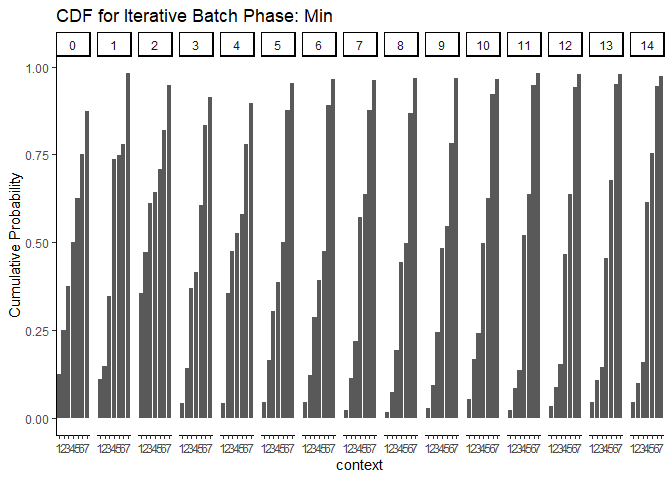
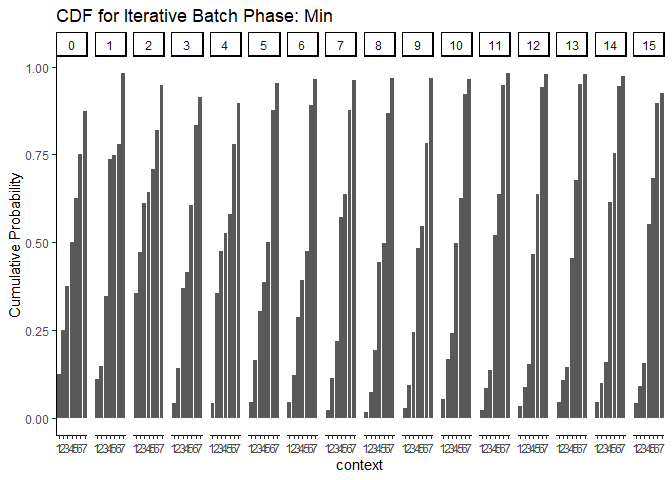
updating data and prob: batch 15, min discriminatory context

diff --git a/04_update_prob/get_qualtrics_data_political_candidates.md b/04_update_prob/get_qualtrics_data_political_candidates.md
@@ -53,7 +53,7 @@ survey_name <- "Political Candidates"
 df <- load_qualtrics(survey_name)
 ```
 
-    ##   |                                                                              |                                                                      |   0%  |                                                                              |=====                                                                 |   8%  |                                                                              |================                                                      |  23%  |                                                                              |====================================                                  |  51%  |                                                                              |===============================================================       |  90%  |                                                                              |====================================================================  |  98%  |                                                                              |======================================================================| 100%
+    ##   |                                                                              |                                                                      |   0%  |                                                                              |================                                                      |  23%  |                                                                              |==========================================                            |  60%  |                                                                              |====================================================================  |  98%  |                                                                              |======================================================================| 100%
 
     ## 
     ## ── Column specification ────────────────────────────────────────────────────────
@@ -88,7 +88,7 @@ df %>%
   nrow()
 ```
 
-    ## [1] 2559
+    ## [1] 2659
 
 ``` r
 # drop test data
@@ -101,21 +101,21 @@ df %>%
   nrow()
 ```
 
-    ## [1] 2436
+    ## [1] 2536
 
 ``` r
 # average finished rate
 mean(df$Finished)
 ```
 
-    ## [1] 0.9967159
+    ## [1] 0.9968454
 
 ``` r
 # average time to complete
 mean(df$`Duration (in seconds)`)
 ```
 
-    ## [1] 96.63752
+    ## [1] 96.43139
 
 ``` r
 # compare amount of time spent
@@ -160,7 +160,7 @@ df %>%
     ## 4 2024-01-02 2024-01-02 15:04:43
     ## 5 2024-01-03 2024-01-03 18:00:25
     ## 6 2024-01-04 2024-01-04 23:51:20
-    ## 7 2024-01-05 2024-01-05 10:45:55
+    ## 7 2024-01-05 2024-01-05 11:35:37
 
 ``` r
 df <- df %>%
@@ -187,6 +187,7 @@ df <- df %>%
       StartDate_clean <= ymd_hms("2024-01-04-16-55-00") ~ 12,
       StartDate_clean <= ymd_hms("2024-01-04-23-55-00") ~ 13,
       StartDate_clean <= ymd_hms("2024-01-05-10-52-00") ~ 14,
+      StartDate_clean <= ymd_hms("2024-01-05-11-50-00") ~ 15,
       TRUE ~ NA_integer_
     ),
     batch_type = case_when(
@@ -207,7 +208,7 @@ df %>%
     ## `summarise()` has grouped output by 'batch_type'. You can override using the
     ## `.groups` argument.
 
-    ## # A tibble: 19 × 3
+    ## # A tibble: 20 × 3
     ## # Groups:   batch_type [3]
     ##    batch_type                 batch_id     n
     ##    <chr>                         <dbl> <int>
@@ -229,7 +230,8 @@ df %>%
     ## 16 Iterative Batch Phase: Min       12   100
     ## 17 Iterative Batch Phase: Min       13   101
     ## 18 Iterative Batch Phase: Min       14   100
-    ## 19 Warmup                            0   323
+    ## 19 Iterative Batch Phase: Min       15   100
+    ## 20 Warmup                            0   323
 
 ## Survey Validation
 
@@ -255,9 +257,9 @@ if (!all(unique(df$Status) == "IP Address")) {
 
     ## Warning: Test/spam data included in the analysis file
 
-    ## Number of observations in data: 2135
+    ## Number of observations in data: 2235
     ## Status values in data: IP Address, Spam
-    ## Number of observations left in data: 2134
+    ## Number of observations left in data: 2234
 
 ``` r
 # check embedded data variables match probabilities for all iterative batches
@@ -272,7 +274,7 @@ df %>%
   distinct()
 ```
 
-    ## # A tibble: 19 × 8
+    ## # A tibble: 20 × 8
     ##    batch_id   pi1   pi2   pi3   pi4   pi5   pi6   pi7
     ##       <dbl> <dbl> <dbl> <dbl> <dbl> <dbl> <dbl> <dbl>
     ##  1        0 0.125 0.25  0.375 0.5   0.625 0.75  0.875
@@ -294,6 +296,7 @@ df %>%
     ## 17       12 0.032 0.088 0.152 0.467 0.637 0.942 0.979
     ## 18       13 0.046 0.108 0.144 0.455 0.677 0.952 0.978
     ## 19       14 0.046 0.098 0.158 0.614 0.753 0.946 0.973
+    ## 20       15 0.042 0.09  0.157 0.552 0.683 0.896 0.924
 
 ``` r
 # check consent means their responses are missing
@@ -318,7 +321,7 @@ df <- df %>%
     ## Warning in check_consent(.): 1 survey respondents who do not consent with
     ## non-missing responses
 
-    ## Warning in check_consent(.): 2133 respondents in the data
+    ## Warning in check_consent(.): 2233 respondents in the data
 
 ``` r
 # check that all completed
@@ -352,7 +355,7 @@ df <- df %>%
     ## Warning in check_completion(.): Dropping 8 survey respondents who did not
     ## finish
 
-    ## Warning in check_completion(.): 2125 respondents in the data
+    ## Warning in check_completion(.): 2225 respondents in the data
 
 ``` r
 df <- df %>%
@@ -395,12 +398,12 @@ df <- df %>%
     ## Warning in check_commitment(.): Dropping 1 survey respondents did not pass
     ## commitment check 1
 
-    ## Warning in check_commitment(.): 2124 respondents in the data
+    ## Warning in check_commitment(.): 2224 respondents in the data
 
     ## Warning in check_commitment(.): Dropping 2 survey respondents who did not pass
     ## commitment check 2
 
-    ## Warning in check_commitment(.): 2122 respondents in the data
+    ## Warning in check_commitment(.): 2222 respondents in the data
 
 ``` r
 # check ID is unique again
@@ -430,8 +433,8 @@ if (length(unique(df$`Prolific ID Q`)) != nrow(df)) {
 
     ## Warning: ID is not unique
 
-    ## Number of rows in data: 2122
-    ## # A tibble: 2,122 × 8
+    ## Number of rows in data: 2222
+    ## # A tibble: 2,222 × 8
     ##        n StartDate_clean     EndDate             flag_first_obs
     ##    <int> <dttm>              <dttm>                       <dbl>
     ##  1     2 2024-01-03 12:29:24 2024-01-03 12:31:07              1
@@ -444,10 +447,10 @@ if (length(unique(df$`Prolific ID Q`)) != nrow(df)) {
     ##  8     1 2023-12-26 18:01:49 2023-12-26 18:02:38              1
     ##  9     1 2023-12-26 18:01:49 2023-12-26 18:02:59              1
     ## 10     1 2023-12-26 18:01:54 2023-12-26 18:02:47              1
-    ## # ℹ 2,112 more rows
+    ## # ℹ 2,212 more rows
     ## # ℹ 4 more variables: `Duration (in seconds)` <dbl>, Finished <lgl>,
     ## #   batch_id <dbl>, batch_type <chr>
-    ## Number of rows in data after dropping duplicate ID: 2119
+    ## Number of rows in data after dropping duplicate ID: 2219
 
 ``` r
 stopifnot(length(unique(df$`Prolific ID Q`)) == nrow(df))
@@ -482,8 +485,8 @@ df %>%
     ##  6 Iterative Batch Phase: Max 6          32
     ##  7 Iterative Batch Phase: Max 7          11
     ##  8 Iterative Batch Phase: Max 8          39
-    ##  9 Iterative Batch Phase: Min 1          92
-    ## 10 Iterative Batch Phase: Min 2         136
+    ##  9 Iterative Batch Phase: Min 1          96
+    ## 10 Iterative Batch Phase: Min 2         141
     ## # ℹ 14 more rows
 
 ``` r
@@ -495,7 +498,7 @@ df %>%
     ## `summarise()` has grouped output by 'batch_type'. You can override using the
     ## `.groups` argument.
 
-    ## # A tibble: 19 × 3
+    ## # A tibble: 20 × 3
     ## # Groups:   batch_type [3]
     ##    batch_type                 batch_id     n
     ##    <chr>                         <dbl> <int>
@@ -517,7 +520,8 @@ df %>%
     ## 16 Iterative Batch Phase: Min       12   100
     ## 17 Iterative Batch Phase: Min       13   101
     ## 18 Iterative Batch Phase: Min       14   100
-    ## 19 Warmup                            0   317
+    ## 19 Iterative Batch Phase: Min       15   100
+    ## 20 Warmup                            0   317
 
 ``` r
 df %>%
@@ -648,20 +652,20 @@ df_clean %>%
   verify(!is.na(chose_younger))
 ```
 
-    ## # A tibble: 2,119 × 10
+    ## # A tibble: 2,219 × 10
     ##    chose_younger    Q1    Q2    Q3    Q4    Q5    Q6    Q7    Q8 context
     ##            <dbl> <dbl> <dbl> <dbl> <dbl> <dbl> <dbl> <dbl> <dbl> <ord>  
     ##  1             1    NA    NA    NA    NA    NA    NA     1    NA 4      
     ##  2             1    NA    NA    NA    NA     1    NA    NA    NA 5      
     ##  3             1    NA    NA    NA    NA    NA    NA    NA     1 2      
     ##  4             0     0    NA    NA    NA    NA    NA    NA    NA 6      
-    ##  5             1    NA    NA    NA    NA    NA    NA    NA     1 4      
-    ##  6             1    NA    NA    NA    NA    NA     1    NA    NA 8      
-    ##  7             0    NA    NA    NA    NA    NA    NA    NA     0 6      
-    ##  8             1    NA    NA    NA    NA    NA     1    NA    NA 6      
-    ##  9             1    NA    NA    NA    NA    NA    NA    NA     1 2      
-    ## 10             1    NA    NA    NA     1    NA    NA    NA    NA 6      
-    ## # ℹ 2,109 more rows
+    ##  5             1    NA    NA    NA    NA    NA     1    NA    NA 4      
+    ##  6             1    NA    NA    NA    NA    NA    NA    NA     1 4      
+    ##  7             1    NA    NA    NA    NA    NA     1    NA    NA 8      
+    ##  8             1    NA     1    NA    NA    NA    NA    NA    NA 3      
+    ##  9             0    NA    NA    NA    NA    NA    NA    NA     0 6      
+    ## 10             1    NA    NA    NA    NA    NA     1    NA    NA 6      
+    ## # ℹ 2,209 more rows
 
 ``` r
 df_clean %>%
@@ -676,14 +680,14 @@ df_clean %>%
     ## # A tibble: 8 × 4
     ##   context     n resp1 resp0
     ##   <ord>   <int> <dbl> <int>
-    ## 1 1         137   106    31
-    ## 2 2         215   159    56
-    ## 3 3         213   158    55
-    ## 4 4         392   273   119
-    ## 5 5         434   332   102
-    ## 6 6         429   301   128
-    ## 7 7         171   132    39
-    ## 8 8         128    97    31
+    ## 1 1         141   110    31
+    ## 2 2         220   163    57
+    ## 3 3         218   163    55
+    ## 4 4         435   304   131
+    ## 5 5         449   344   105
+    ## 6 6         444   306   138
+    ## 7 7         174   133    41
+    ## 8 8         138   105    33
 
 ``` r
 # identify context desc
@@ -752,14 +756,14 @@ df_clean %>%
     ## # A tibble: 8 × 3
     ##   race                                  n     per
     ##   <chr>                             <int>   <dbl>
-    ## 1 White                              1521 0.718  
-    ## 2 Black or African American           213 0.101  
-    ## 3 Asian                               195 0.0920 
-    ## 4 Multiracial                         106 0.0500 
-    ## 5 Other                                40 0.0189 
-    ## 6 Prefer not to disclose               25 0.0118 
-    ## 7 American Indian or Alaskan Native    12 0.00566
-    ## 8 Native Hawaiian                       7 0.00330
+    ## 1 White                              1601 0.721  
+    ## 2 Black or African American           220 0.0991 
+    ## 3 Asian                               201 0.0906 
+    ## 4 Multiracial                         110 0.0496 
+    ## 5 Other                                42 0.0189 
+    ## 6 Prefer not to disclose               26 0.0117 
+    ## 7 American Indian or Alaskan Native    12 0.00541
+    ## 8 Native Hawaiian                       7 0.00315
 
 ``` r
 df_clean %>%
@@ -769,7 +773,7 @@ df_clean %>%
 
     ## `stat_bin()` using `bins = 30`. Pick better value with `binwidth`.
 
-    ## Warning: Removed 26 rows containing non-finite values (`stat_bin()`).
+    ## Warning: Removed 28 rows containing non-finite values (`stat_bin()`).
 
 ![](get_qualtrics_data_political_candidates_files/figure-gfm/demog-1.png)<!-- -->
 
@@ -782,8 +786,8 @@ df_clean %>%
     ## # A tibble: 2 × 2
     ##   female count
     ##   <lgl>  <int>
-    ## 1 FALSE   1140
-    ## 2 TRUE     979
+    ## 1 FALSE   1185
+    ## 2 TRUE    1034
 
 ``` r
 df_clean %>%
@@ -796,7 +800,7 @@ df_clean %>%
     ## # A tibble: 1 × 2
     ##   count_hispanic per_hispanic
     ##            <int>        <dbl>
-    ## 1            199       0.0939
+    ## 1            208       0.0937
 
 ## Clean Data Validation
 

diff --git a/04_update_prob/update_prob_political_candidates.md b/04_update_prob/update_prob_political_candidates.md
@@ -65,7 +65,7 @@ num_outcome0 <- integer(num_contexts)
 print(str_glue("Number of rows in data: {nrow(df_clean)}"))
 ```
 
-    ## Number of rows in data: 2119
+    ## Number of rows in data: 2219
 
 ``` r
 # filter for correct batch types (whether max discriminatory or min)
@@ -82,13 +82,13 @@ if (current_batch_num != max(df_clean$batch_id)) {
 print(str_glue("Current batch ID: {current_batch_num}"))
 ```
 
-    ## Current batch ID: 14
+    ## Current batch ID: 15
 
 ``` r
 print(str_glue("Number of rows left in data: {nrow(df_clean)}"))
 ```
 
-    ## Number of rows left in data: 1720
+    ## Number of rows left in data: 1820
 
 ``` r
 print(str_glue("Only batch type in data: {str_c(unique(df_clean$batch_type), collapse=', ')}"))
@@ -101,7 +101,7 @@ set.seed(2023)
 nrow(df_clean)
 ```
 
-    ## [1] 1720
+    ## [1] 1820
 
 ``` r
 # generate prob of most (or least) discriminatory context
@@ -114,21 +114,21 @@ output <- update_ts(df_clean, num_sim, num_contexts, num_outcome1,
 
     ## [1] 1e+06
     ## [1] "Predicting the least discriminatory context: taking the argmin"
-    ## [1] "PDF: 0.042162,0.047757,0.067234,0.3952,0.130345,0.213408,0.027985,0.075909"
-    ## [1] "CDF: 0.042162,0.089919,0.157153,0.552353,0.682698,0.896106,0.924091,1"
+    ## [1] "PDF: 0.025914,0.038997,0.041927,0.303112,0.084062,0.415836,0.039268,0.050884"
+    ## [1] "CDF: 0.025914,0.064911,0.106838,0.40995,0.494012,0.909848,0.949116,1"
 
 ``` r
 output
 ```
 
     ## $pi
-    ## [1] 0.042162 0.089919 0.157153 0.552353 0.682698 0.896106 0.924091 1.000000
+    ## [1] 0.025914 0.064911 0.106838 0.409950 0.494012 0.909848 0.949116 1.000000
     ## 
     ## $num_outcome1
-    ## [1]  97 132 154 265 134 279 123  70
+    ## [1] 101 136 159 296 146 284 124  78
     ## 
     ## $num_outcome0
-    ## [1]  28  43  54 118  49 118  37  19
+    ## [1]  28  44  54 130  52 128  39  21
 
 ``` r
 # check total is equal to number of observations in data
@@ -159,13 +159,13 @@ modified_flow_data <- update_flow_with_probabilities(
 )
 ```
 
-    ## For pi1, replacing old probability 0.042 with new probability 0.042
-    ## For pi2, replacing old probability 0.09 with new probability 0.09
-    ## For pi3, replacing old probability 0.157 with new probability 0.157
-    ## For pi4, replacing old probability 0.552 with new probability 0.552
-    ## For pi5, replacing old probability 0.683 with new probability 0.683
-    ## For pi6, replacing old probability 0.896 with new probability 0.896
-    ## For pi7, replacing old probability 0.924 with new probability 0.924
+    ## For pi1, replacing old probability 0.042 with new probability 0.026
+    ## For pi2, replacing old probability 0.09 with new probability 0.065
+    ## For pi3, replacing old probability 0.157 with new probability 0.107
+    ## For pi4, replacing old probability 0.552 with new probability 0.41
+    ## For pi5, replacing old probability 0.683 with new probability 0.494
+    ## For pi6, replacing old probability 0.896 with new probability 0.91
+    ## For pi7, replacing old probability 0.924 with new probability 0.949
 
 ``` r
 # Reconstruct the full survey configuration with the modified flow part
@@ -190,7 +190,7 @@ print(update_response)
     ## [1] "200 - OK"
     ## 
     ## $meta$requestId
-    ## [1] "d822f385-2fbc-4683-8352-14af12c5aab8"
+    ## [1] "841fbc18-c374-49fd-b80b-f53c86a2526c"
 
 ``` r
 tibble(
